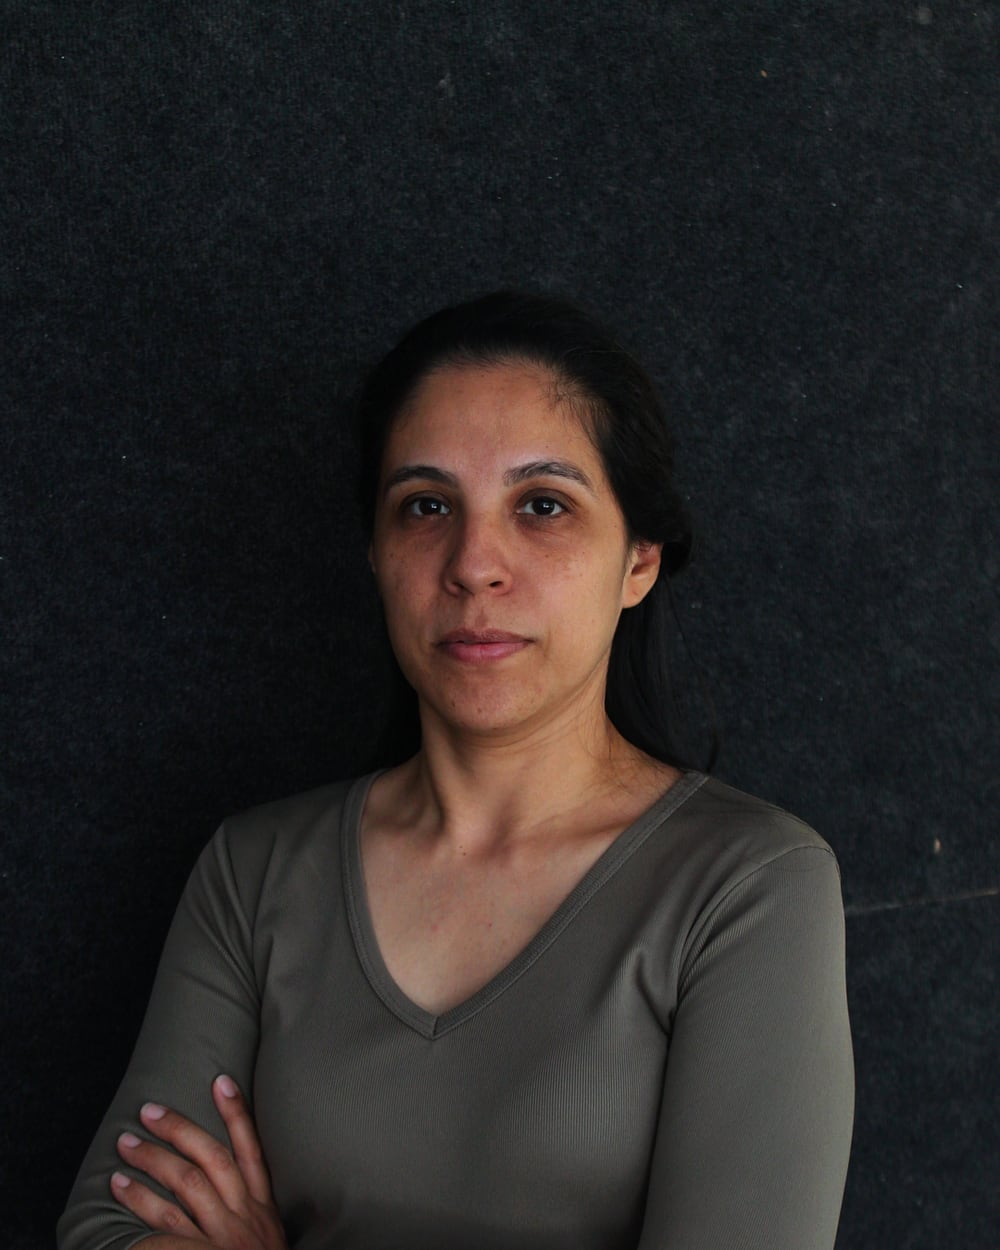
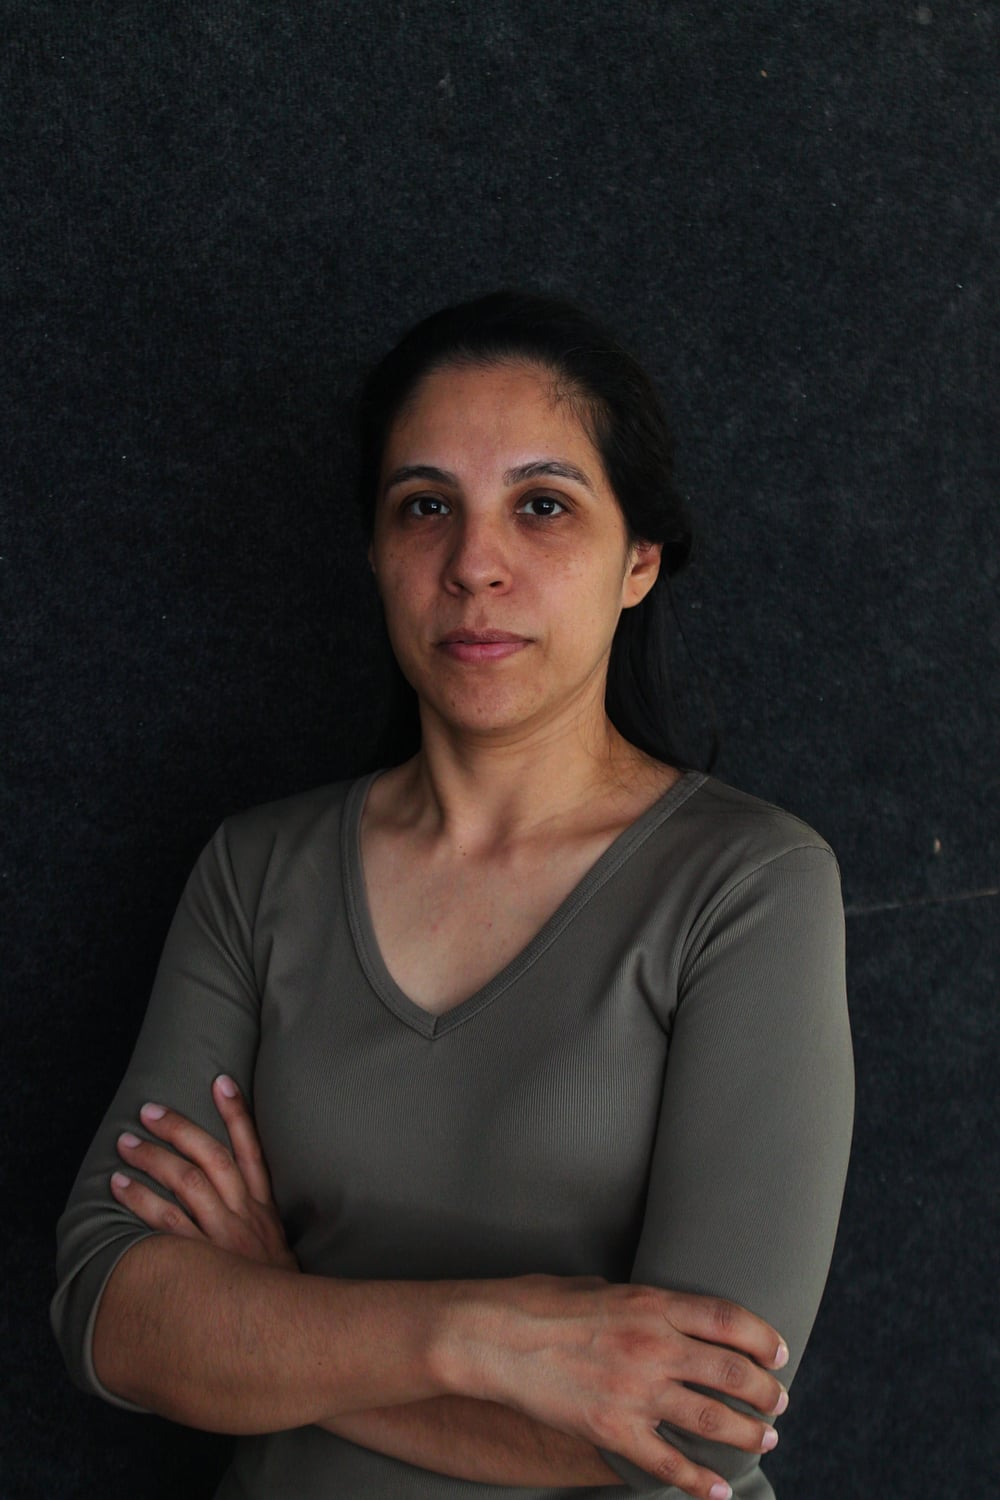
Fix: texto blanco en botón navbar + fotos del equipo sin recorte
- Botón "Pedir presupuesto": .nav ul a (color oscuro) pisaba el blanco del
  .btn-primary por especificidad. Excluido el botón (:not(.btn)) y forzado
  color #fff en .cta.
- Fotos del equipo: se muestran completas (2:3, sin crop), regeneradas full.

Changed region(s): [[0.031, 0.2184, 0.868, 1.0]]

diff --git a/src/styles/global.css b/src/styles/global.css
@@ -130,9 +130,9 @@ h2.sec{font-size:34px;font-weight:800;letter-spacing:-.8px;margin:8px 0 6px}
 .nav-in{display:flex;align-items:center;justify-content:space-between;height:74px}
 .nav-in>a img{height:38px;width:auto}
 .nav ul{display:flex;gap:28px;list-style:none;font-size:15px;font-weight:500;align-items:center}
-.nav ul a{color:var(--tinta)}.nav ul a:hover{color:var(--azul)}
-.nav .cta{font-size:14px;padding:11px 20px;box-shadow:0 2px 8px rgba(36,120,252,.22)}
-.nav .cta:hover{transform:none;box-shadow:0 4px 12px rgba(36,120,252,.32)}
+.nav ul a:not(.btn){color:var(--tinta)}.nav ul a:not(.btn):hover{color:var(--azul)}
+.nav .cta{font-size:14px;padding:11px 20px;color:#fff;box-shadow:0 2px 8px rgba(36,120,252,.22)}
+.nav .cta:hover{transform:none;color:#fff;box-shadow:0 4px 12px rgba(36,120,252,.32)}
 .nav-toggle{display:none;background:none;border:none;cursor:pointer;padding:6px}
 .nav-toggle svg{width:28px;height:28px;stroke:var(--negro)}
 @media(max-width:900px){